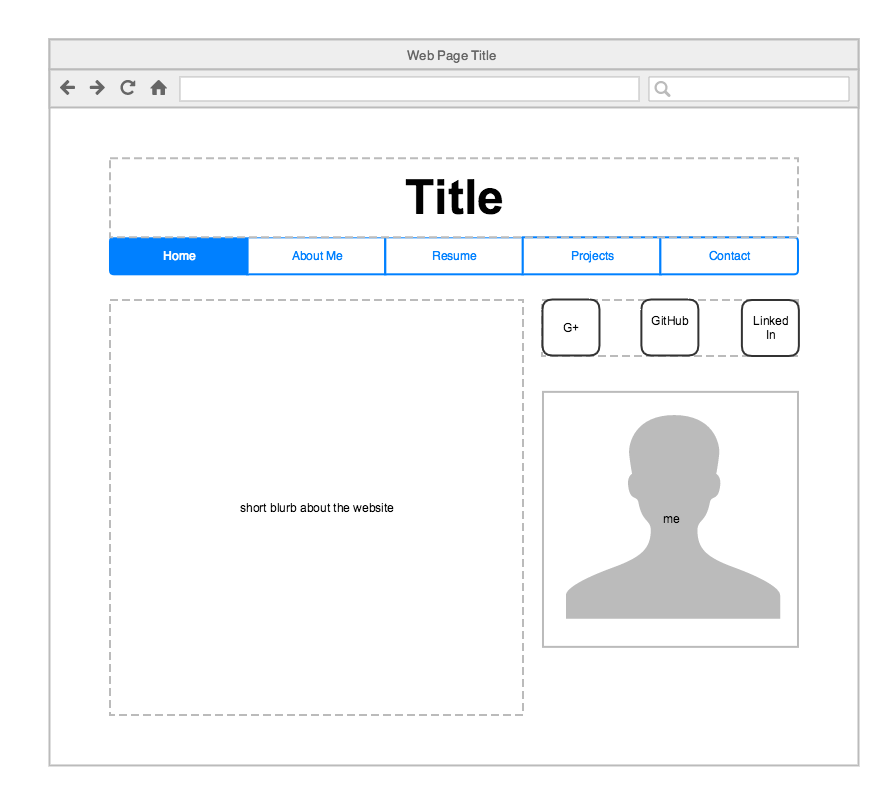
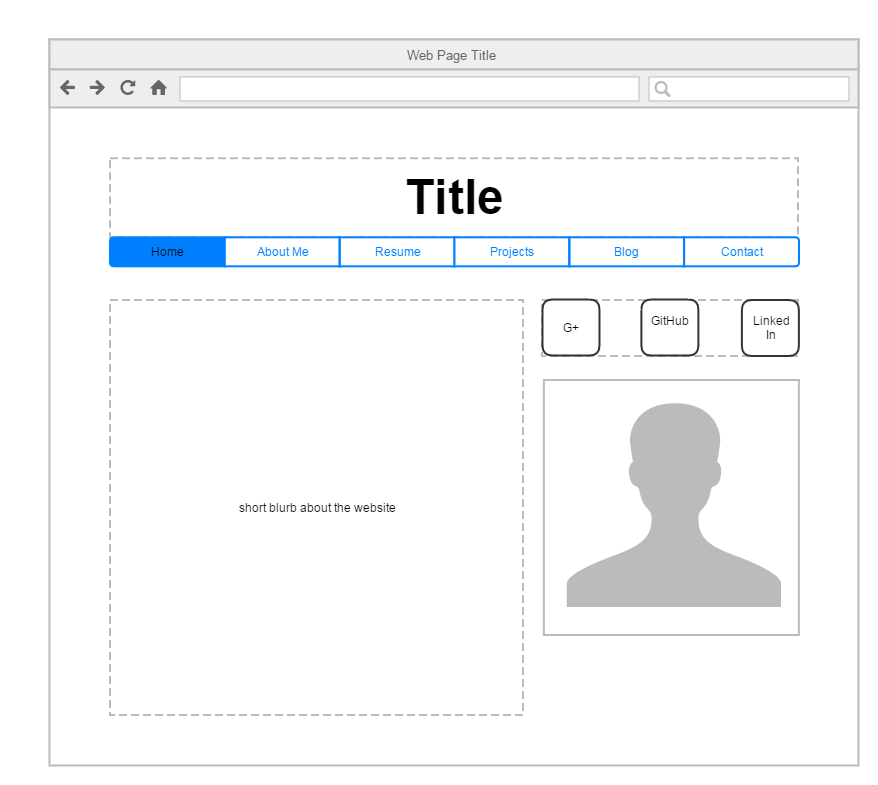
Add complete wireframe reflection and updated wireframes.

diff --git a/week-2/wireframe-reflection.md b/week-2/wireframe-reflection.md
@@ -5,12 +5,13 @@ Wireframing is when you draw out the layout/template of each page type for your 
 Wireframing allows you to quickly draw up a goal template for you site before you start to create it so that you don't waste your time trying to rearrange things with code. since it's a drawing, you it is a quick task that allows the client to approve a design layout before you start to code it.
 
 ####Did you enjoy wireframing your site?
-I did because I always like going in with a plan. 
+I did because I always like going in with a plan. It made it very clear for me to know what I needed to include when drawing the wireframe.
 
 ####Did you revise your wireframe or stick with your first idea?
 I revised it. I was originally thinking about making the Home Page the About Me section, but thought that it might confuse the user. So, I changed it to have a short blurb of the website and a picture of myself. I also changed the location of the social media links. They were originally in the footer section, but I moved them closer to the top so that they are easily noticed.
 
 ####What questions did you ask during this challenge? What resources did you find to help you answer them?
-
+I wondered how users interact with these types of websites and how these websites get noticed on Google. I found out that Google has an extremely complicated algorithm. In order to get ranked higher on their search engine, you need to do something called Search Engine Optimization (SEO). I'm hoping that we'll learn about that later on in DBC.
 
 ####Which parts of the challenge did you enjoy and which parts did you find tedious?
+I liked the part where I had to actually create the wireframe. I thought that thinking of everything that should be included and thinking of how those components should be layed out were a bit tedious.
